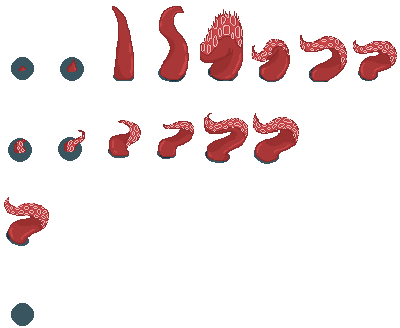
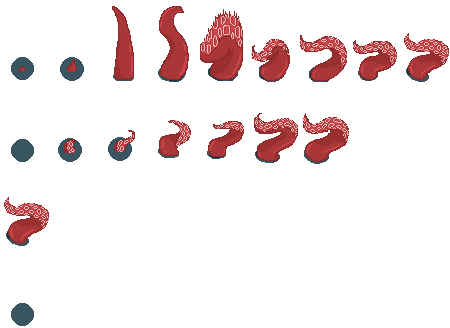
Fixing Tentacle Flash Bug

diff --git a/src/app/entities/tentacle.cpp b/src/app/entities/tentacle.cpp
@@ -22,20 +22,23 @@ tentacle::tentacle() : PSInterfaces::IEntity("tentacle")
 {
 	Vector2 frame_grid{9, 2};
 	PRELOAD_TEXTURE(ident_, "resources/entity/tentacle.png", frame_grid);
-	m_Tentacle_sprite = FETCH_SPRITE(ident_);
+	m_tentacle_sprite = FETCH_SPRITE(ident_);
 
 	std::vector<PSCore::sprites::SpriteSheetData> sp_data;
-	sp_data.push_back({8, 0.1, PSCore::sprites::Forward, 0});
-	sp_data.push_back({6, 0.1, PSCore::sprites::Backward, 1});
-	sp_data.push_back({1, 1, PSCore::sprites::Forward, 2});
-	sp_data.push_back({1, 1, PSCore::sprites::Forward, 3});
+	sp_data.push_back({9, 0.1, PSCore::sprites::Forward, 1});
+	sp_data.push_back({7, 0.1, PSCore::sprites::Backward, 1});
+	sp_data.push_back({2, 1, PSCore::sprites::KeyFrame, 1});
+	sp_data.push_back({1, 1, PSCore::sprites::KeyFrame, 0});
 
-	m_animation_controller = PSCore::sprites::SpriteSheetAnimation(FETCH_SPRITE_TEXTURE(ident_), sp_data);
+	m_animation_controller = PSCore::sprites::SpriteSheetAnimation(m_tentacle_sprite->m_s_texture, sp_data);
 
-	m_animation_controller.add_animation_at_index(0, 0);
-	m_animation_controller.add_animation_at_index(1, 1);
-	m_animation_controller.add_animation_at_index(2, 2);
-	m_animation_controller.add_animation_at_index(3, 3);
+	m_animation_controller.add_animation_at_index(3, 0);
+	m_animation_controller.add_animation_at_index(2, 1);
+
+	m_animation_controller.set_animation_at_index(2, 1, 1);
+
+	time_until_water_break = static_cast<float>(PSUtils::gen_rand(4, 8));
+	time_until_retreat	   = max_time_until_retreat;
 }
 
 void tentacle::init(std::shared_ptr<tentacle> self, const Vector2& pos)
@@ -86,23 +89,37 @@ void tentacle::render()
 	if ( const auto& vp = gApp()->viewport() ) {
 		switch ( m_state ) {
 			case Idle: {
-				auto tex = m_Tentacle_sprite;
-				vp->draw_in_viewport(tex->m_s_texture, m_animation_controller.get_source_rectangle(3).value_or(Rectangle{0}), m_pos, 0, WHITE);
+				m_animation_controller.set_animation_at_index(2, 1, 1);
+				vp->draw_in_viewport(
+						m_tentacle_sprite->m_s_texture, m_animation_controller.get_source_rectangle(0).value_or(Rectangle{0}), m_pos, 0, WHITE
+				);
 				break;
 			}
 			case WaterBreak: {
-				auto tex = m_Tentacle_sprite;
-				vp->draw_in_viewport(tex->m_s_texture, m_animation_controller.get_source_rectangle(0).value_or(Rectangle{0}), m_pos, 0, WHITE);
+				if ( m_animation_controller.get_sprite_sheet_animation_index(1).value_or(-1) != 0 ) {
+					m_animation_controller.set_animation_at_index(0, 0, 1);
+				}
+				vp->draw_in_viewport(
+						m_tentacle_sprite->m_s_texture, m_animation_controller.get_source_rectangle(1).value_or(Rectangle{0}), m_pos, 0, WHITE
+				);
 				break;
 			}
 			case Attacking: {
-				auto tex = m_Tentacle_sprite;
-				vp->draw_in_viewport(tex->m_s_texture, m_animation_controller.get_source_rectangle(2).value_or(Rectangle{0}), m_pos, 0, WHITE);
+				if ( m_animation_controller.get_sprite_sheet_animation_index(1).value_or(-1) != 2 ) {
+					m_animation_controller.set_animation_at_index(2, 0, 1);
+				}
+				vp->draw_in_viewport(
+						m_tentacle_sprite->m_s_texture, m_animation_controller.get_source_rectangle(1).value_or(Rectangle{0}), m_pos, 0, WHITE
+				);
 				break;
 			}
 			case Retreat: {
-				auto tex = m_Tentacle_sprite;
-				vp->draw_in_viewport(tex->m_s_texture, m_animation_controller.get_source_rectangle(1).value_or(Rectangle{0}), m_pos, 0, WHITE);
+				if ( m_animation_controller.get_sprite_sheet_animation_index(1).value_or(-1) != 1 ) {
+					m_animation_controller.set_animation_at_index(1, 5, 1);
+				}
+				vp->draw_in_viewport(
+						m_tentacle_sprite->m_s_texture, m_animation_controller.get_source_rectangle(1).value_or(Rectangle{0}), m_pos, 0, WHITE
+				);
 				break;
 			}
 		}
@@ -117,22 +134,24 @@ void tentacle::update(float dt)
 		m_collider->check_collision(app_layer->entities());
 	}
 
-	switch ( m_state ) {
-		case Idle: {
-			IdleUpdate(dt);
-			break;
-		}
-		case WaterBreak: {
-			WaterBreakUpdate(dt);
-			break;
-		}
-		case Attacking: {
-			AttackingUpdate(dt);
-			break;
-		}
-		case Retreat: {
-			RetreatingUpdate(dt);
-			break;
+	if ( is_active_ ) {
+		switch ( m_state ) {
+			case Idle: {
+				IdleUpdate(dt);
+				break;
+			}
+			case WaterBreak: {
+				WaterBreakUpdate(dt);
+				break;
+			}
+			case Attacking: {
+				AttackingUpdate(dt);
+				break;
+			}
+			case Retreat: {
+				RetreatingUpdate(dt);
+				break;
+			}
 		}
 	}
 }
@@ -142,43 +161,35 @@ void tentacle::IdleUpdate(float dt)
 {
 	time_until_water_break -= dt;
 	if ( time_until_water_break <= 0 ) {
-		m_state = State::WaterBreak;
-		m_animation_controller.set_animation_at_index(0, 0, 0);
+		time_until_water_break = static_cast<float>(PSUtils::gen_rand(4, 8));
+		m_state				   = State::WaterBreak;
+
 		propose_z_index(-2);
 	}
 }
 
 void tentacle::WaterBreakUpdate(float dt)
 {
-	time_until_attack -= dt;
-	if ( time_until_attack <= 0 ) {
+	if ( m_animation_controller.get_sprite_sheet_frame_index(1).value_or(-1) == 8 ) {
 		m_state = State::Attacking;
-		m_animation_controller.set_animation_at_index(2, 0, 2);
 	}
 }
 
 void tentacle::AttackingUpdate(float dt)
 {
 	time_until_retreat -= dt;
-
 	if ( time_until_retreat <= 0 ) {
-		m_animation_controller.set_animation_at_index(1, 5, 1);
-		m_state = State::Retreat;
+		time_until_retreat = max_time_until_retreat;
+		m_state			   = State::Retreat;
 	}
 }
 void tentacle::RetreatingUpdate(float dt)
 {
-	until_reposition -= dt;
-	if ( until_reposition <= 0 ) {
+	if ( m_animation_controller.get_sprite_sheet_frame_index(1).value_or(-1) == 0 ) {
 		m_state = State::Idle;
 
-		time_until_water_break = PSUtils::gen_rand(4, 8);
-		time_until_attack	   = max_time_until_attack;
-		time_until_retreat	   = max_time_until_retreat;
-		until_reposition	   = max_until_reposition;
-
-		SetNewPos();
 		propose_z_index(-40);
+		SetNewPos();
 	}
 }
 void tentacle::SetNewPos()
@@ -240,16 +251,16 @@ void tentacle::draw_debug()
 
 void tentacle::set_is_active(bool active)
 {
-	is_active_ = active;
-
 	if ( active ) {
 		// Reset all states
-		m_state				   = State::Idle;
-		time_until_water_break = PSUtils::gen_rand(4, 8);
-		time_until_attack	   = max_time_until_attack;
+		time_until_water_break = static_cast<float>(PSUtils::gen_rand(4, 8));
 		time_until_retreat	   = max_time_until_retreat;
-		until_reposition	   = max_until_reposition;
+		m_animation_controller.set_animation_at_index(2, 1, 1);
+		m_state = State::Idle;
+		propose_z_index(-40);
+		SetNewPos();
 	}
+	is_active_ = active;
 }
 
 void tentacle::determine_gem_drop()

diff --git a/src/app/entities/tentacle.h b/src/app/entities/tentacle.h
@@ -31,7 +31,7 @@ public:
 	std::optional<std::vector<Vector2>> bounds() const override;
 
 	void on_hit() override;
-	
+
 	void set_is_active(bool acive) override;
 
 	enum State { Idle = 0, WaterBreak, Attacking, Retreat };
@@ -42,24 +42,20 @@ private:
 	std::shared_ptr<tentacle> m_self;
 
 	Vector2 m_pos{(float) 100, (float) 100};
-	State m_state = State::Idle;
+	State m_state	   = State::Idle;
 	State m_prev_state = m_state;
 	std::string m_state_string;
 
-	std::shared_ptr<PSCore::sprites::Sprite> m_Tentacle_sprite;
+	std::shared_ptr<PSCore::sprites::Sprite> m_tentacle_sprite;
 	std::unique_ptr<PSCore::collision::EntityCollider> m_collider;
 
 	PSCore::sprites::SpriteSheetAnimation m_animation_controller;
 
 	float time_until_water_break;
-	float time_until_attack;
 	float time_until_retreat;
-	float until_reposition;
 
-	float max_time_until_attack=0.8;
-	float max_time_until_retreat=0.5;
-	float max_until_reposition=0.6;
-	
+	float max_time_until_retreat = 0.5;
+
 	int m_spawn_area_margin = CFG_VALUE<int>("tentacle_spawn_area_margin", 80);
 
 	void IdleUpdate(float dt);
